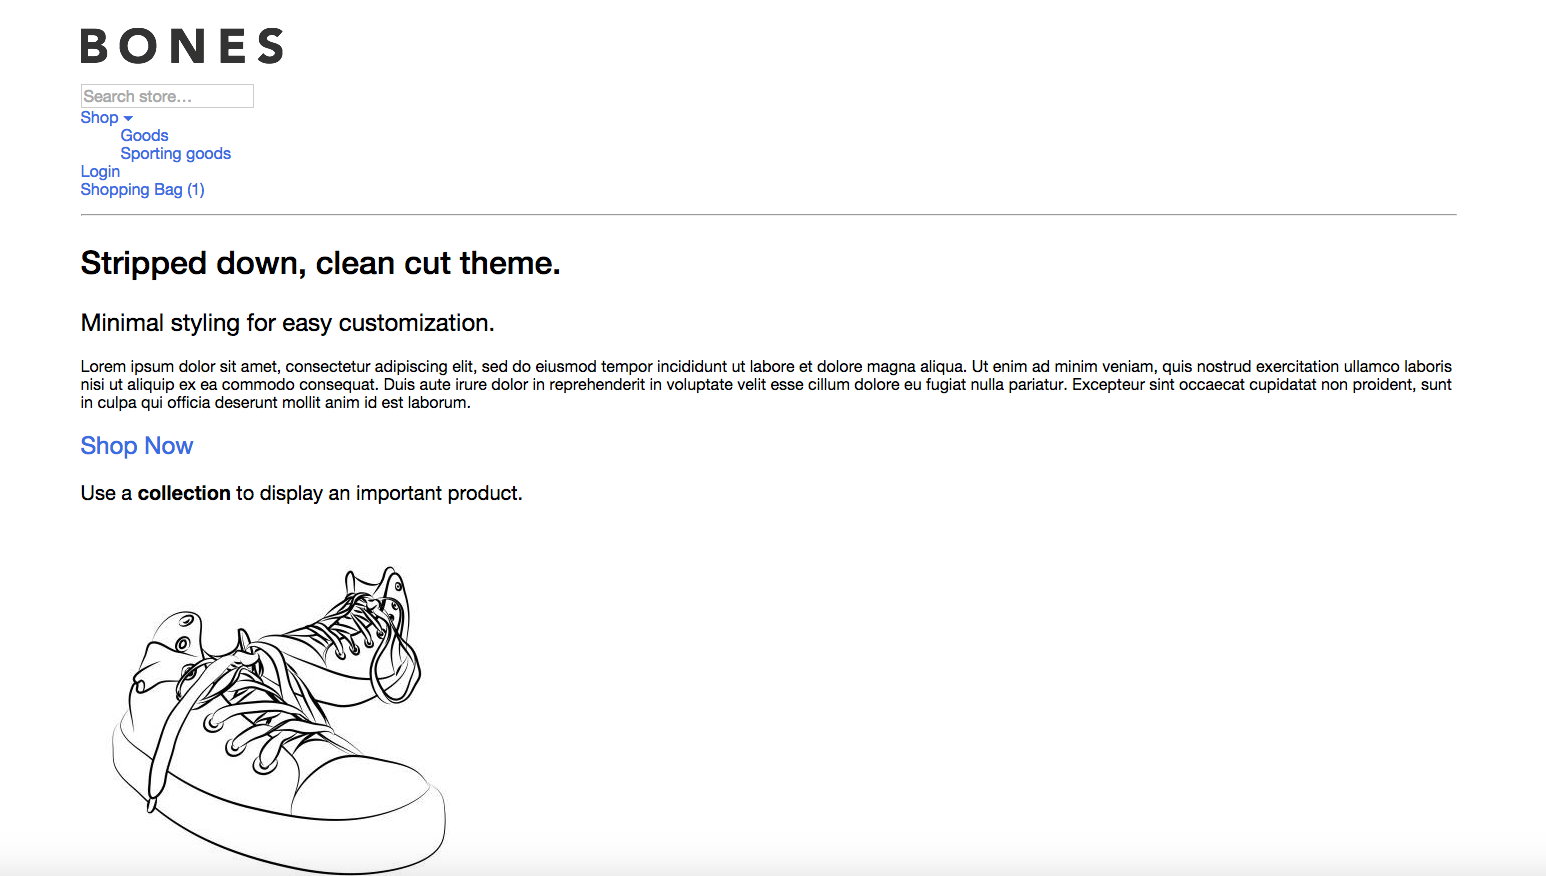
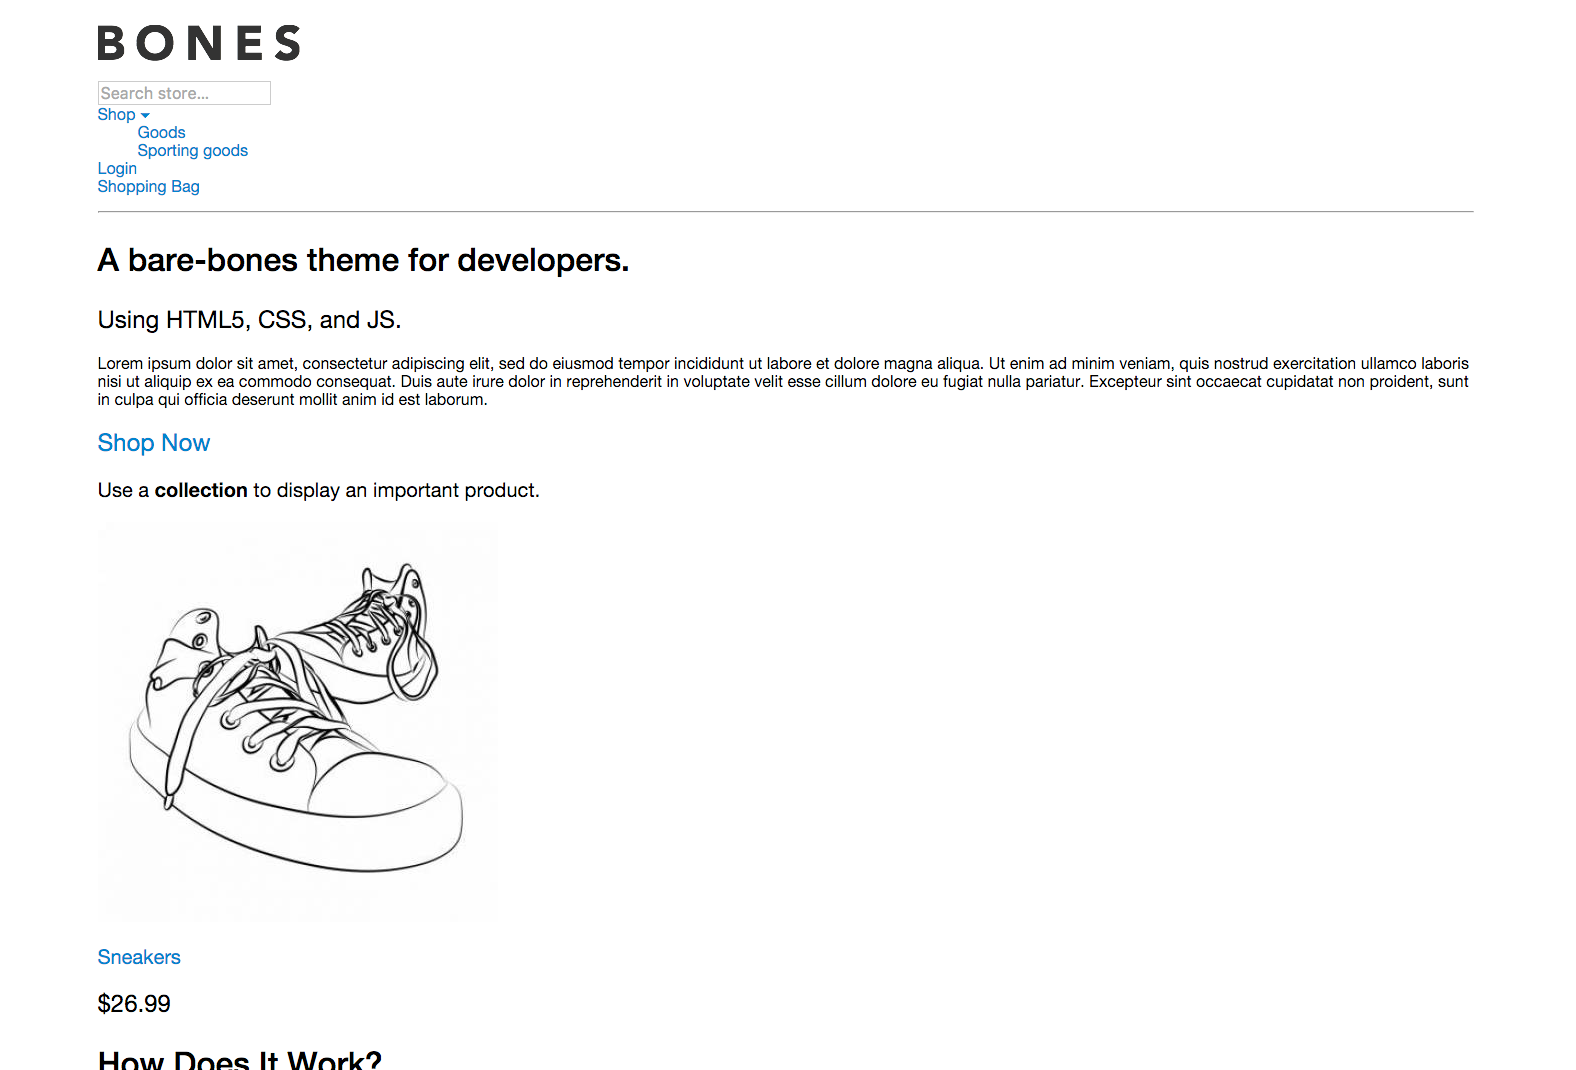
Adds gulpfile, node modules, updates screenshot for new header

diff --git a/gulpfile.js b/gulpfile.js
@@ -1,0 +1,74 @@
+// Load plugins
+var gulp = require('gulp'),
+    sass = require('gulp-sass'),
+    minifycss = require('gulp-minify-css'),
+    jshint = require('gulp-jshint'),
+    uglify = require('gulp-uglify'),
+    concat = require('gulp-concat'),
+    rename = require('gulp-rename'),
+    notify = require('gulp-notify');
+
+// Source paths
+var jsSrc = [
+        'resources/scripts/src/*.js'
+    ],
+    sassSrc = [
+        'resources/stylesheets/src/*.scss'
+    ];
+
+// Compile and minify Sass 
+gulp.task('styles', function () {
+    gulp.src(sassSrc)
+        .pipe(sass({
+            style: 'expanded',
+            lineNumbers: true,
+            sourcemap: false,
+            includePaths: require('node-neat').includePaths
+        }))
+        .pipe(gulp.dest('resources/stylesheets'))
+        .pipe(rename({ suffix: '.min' }))
+        .pipe(minifycss())
+        .pipe(gulp.dest('resources/stylesheets'))
+        .pipe(notify({ message: 'Styles task complete' }));
+}); 
+
+// Lint
+gulp.task('lint', function() {
+    return gulp.src(jsSrc)
+        .pipe(jshint())
+        .pipe(jshint.reporter('default'))
+        .pipe(notify(
+            function (file) {
+              if (file.jshint.success) {
+                return false;
+              }
+
+              var errors = file.jshint.results.map(function (data) {
+                if (data.error) {
+                  return "(" + data.error.line + ':' + data.error.character + ') ' + data.error.reason;
+                }
+              }).join("\n");
+              return file.relative + " (" + file.jshint.results.length + " errors)\n" + errors;
+            }
+        ));
+});
+
+// Concat and uglify scripts
+gulp.task('scripts', function () {
+    gulp.src(jsSrc)
+        .pipe(concat('all.js'))
+        .pipe(rename({ suffix: '.min' }))
+        .pipe(uglify())
+        .pipe(gulp.dest('resources/scripts'))
+        .pipe(notify({ message: 'Scripts task complete' }));
+});   
+
+// Watch for changes
+gulp.task('watch', function() {
+    gulp.watch(jsSrc, ['lint']);
+    gulp.watch(sassSrc, ['styles']);
+    gulp.watch(jsSrc, ['scripts']);
+});
+
+// Default task
+gulp.task('default', ['styles', 'lint', 'scripts', 'watch']);
